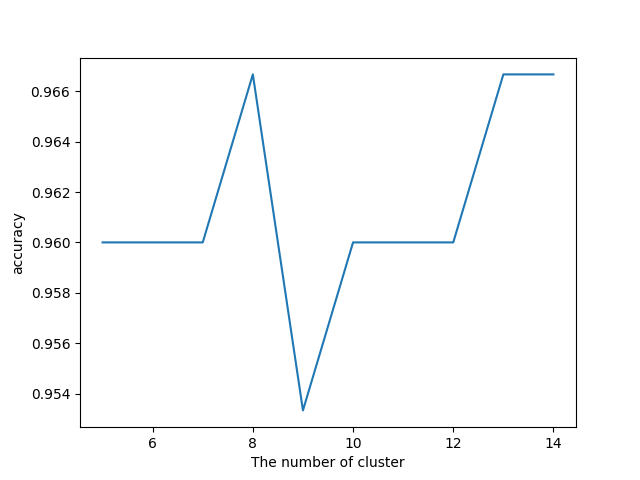
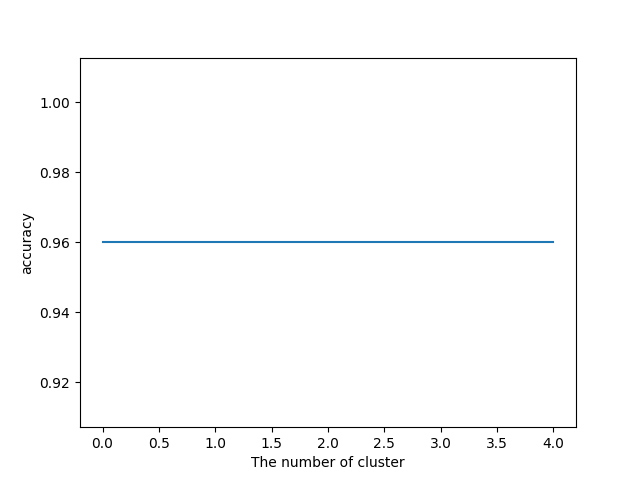
こんなことで桶

diff --git a/main.py b/main.py
@@ -25,7 +25,7 @@ from sklearn.manifold import TSNE
 
 if __name__ == '__main__':
     print(crayons.red("Main Program"))
-    opt = keras.optimizers.Adam(learning_rate=0.001)
+
     iris = load_iris()
     x_train = iris.data
     y_train = iris.target
@@ -43,7 +43,6 @@ if __name__ == '__main__':
 
     fig = plt.figure()
     plt.scatter(feature[:,0],feature[:,1],alpha=0.8,c=y_train,label=y_train)
-    plt.legend()
     plt.xlabel("x0")
     plt.ylabel("x1")
     fig.savefig("PCA.png")
@@ -79,8 +78,8 @@ if __name__ == '__main__':
     plt.clf()
     plt.close()
 
-    KM = KMeans(n_clusters = 10)
-    result = KM.fit(feature[:,:9])
+    KM = KMeans(n_clusters = 5)
+    result = KM.fit(feature[:,:4])
 
     df_eval = pd.DataFrame(confusion_matrix(y_train,result.labels_))   # 混同行列
     df_eval.columns = df_eval.idxmax()  # 縦に予測している
@@ -92,15 +91,15 @@ if __name__ == '__main__':
     #クラスタの中のデータの最も多いラベルを正解ラベルとしてそれが多くなるようなクラスタ数を探索
     eval_acc_list=[]
 
-    for i in range(5,15):
+    for i in range(0,5):
         KM = KMeans(n_clusters = i)
-        result = KM.fit(feature[:,:9])
+        #result = KM.fit(feature[:,:4])
         df_eval = pd.DataFrame(confusion_matrix(y_train,result.labels_))
         eval_acc = df_eval.max().sum()/df_eval.sum().sum()
         eval_acc_list.append(eval_acc)
 
     fig = plt.figure()
-    plt.plot(range(5,15),eval_acc_list)
+    plt.plot(range(0,5),eval_acc_list)
     plt.xlabel("The number of cluster")
     plt.ylabel("accuracy")
     fig.savefig("Thenumberofcluster.png")
